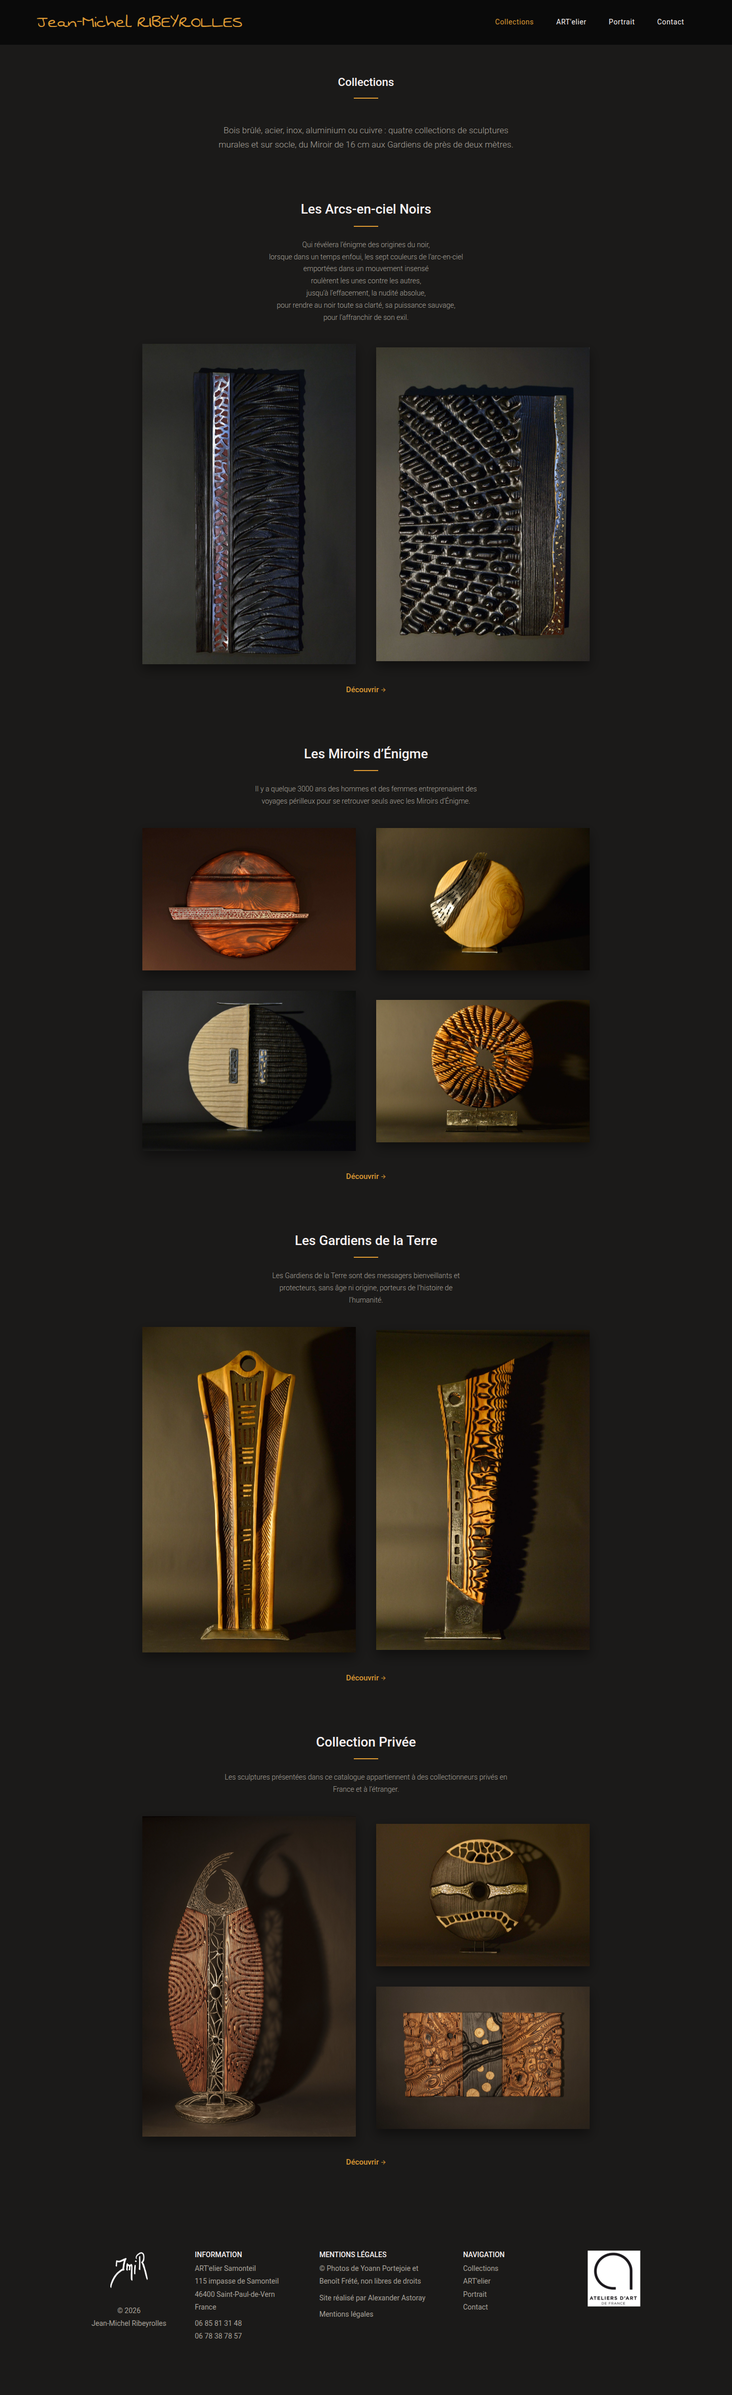
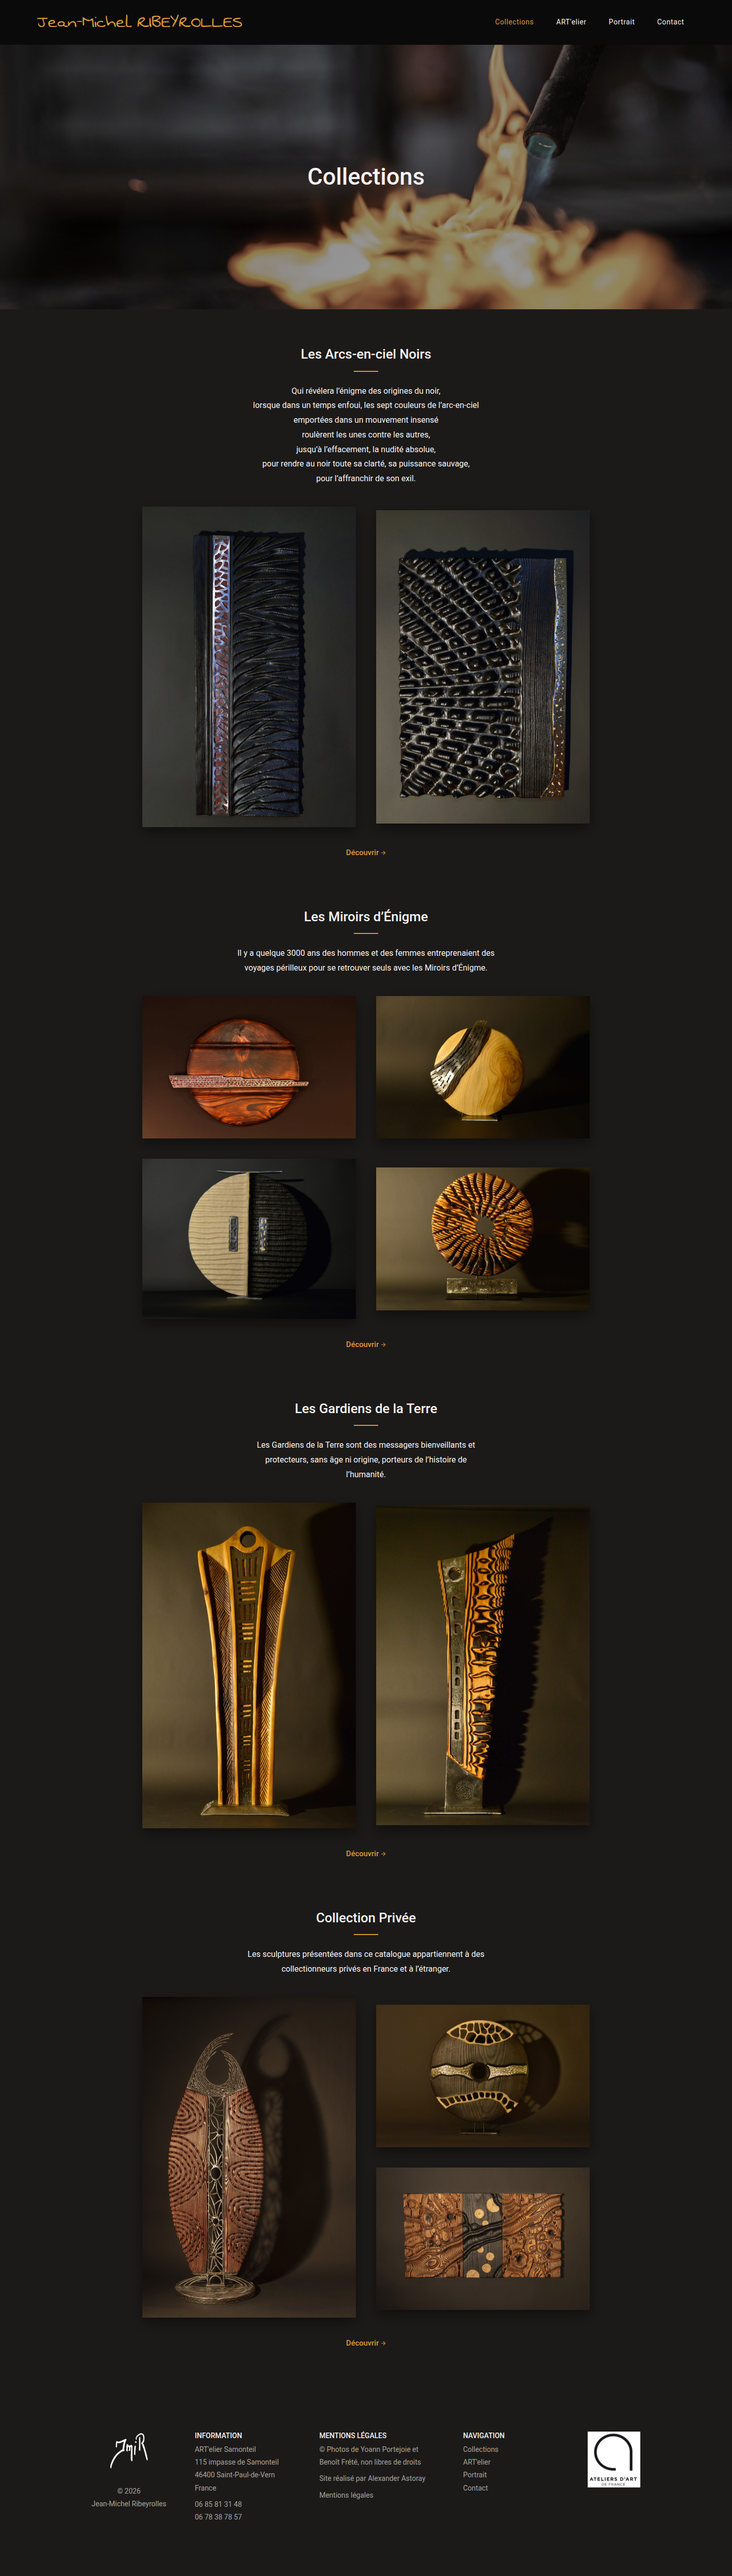
feat: update maquettes

diff --git a/maquettes/styles.css b/maquettes/styles.css
@@ -169,6 +169,10 @@ html { scroll-padding-top: calc(var(--header-h-s) + 16px); }
   font-size: clamp(30px, 4vw, 46px); padding: 0 var(--gutter);
 }
 @media (max-width: 700px) { .banner { height: 220px; } }
+/* Bandeau de collections.html : cadré sur la partie nette (buse du chalumeau et pointe
+   de la flamme, en haut à droite de la photo) */
+.banner--colls img { object-position: 70% 12%; }
+@media (max-width: 700px) { .banner--colls img { object-position: 72% 18%; } }
 
 /* --------------------------------------------------------------------------
    Footer
@@ -497,8 +501,9 @@ html { scroll-padding-top: calc(var(--header-h-s) + 16px); }
 .cblock { padding-block: 72px; text-align: center; }
 .cblock + .cblock { padding-top: 24px; }
 .cblock .section-title { font-size: clamp(22px, 2vw, 26px); margin-bottom: 24px; }
+/* Textes des collections : taille et couleur des paragraphes de portrait.html */
 .cblock .verse, .cblock .intro-line {
-  font-size: 14px; line-height: 1.7; font-weight: 300; color: var(--text-2);
+  font-size: 16px; line-height: 1.8; font-weight: 400; color: var(--text);
   text-align: center; margin: 0 auto;
 }
 .cblock .intro-line { max-width: 560px; }

diff --git a/maquettes/collections.html b/maquettes/collections.html
@@ -32,13 +32,11 @@
   </div>
 </header>
 <main>
-<section class="section section--tight colls-top" aria-labelledby="t-top">
-  <div class="wrap">
-    <h1 class="section-title" id="t-top">Collections</h1>
-    <p class="colls-intro">Bois brûlé, acier, inox, aluminium ou cuivre&nbsp;: quatre collections de sculptures murales
-      et sur socle, du Miroir de 16&nbsp;cm aux Gardiens de près de deux mètres.</p>
-  </div>
+<section class="banner banner--colls">
+  <img src="../docs/design/photos/Bandeau-COLLECTIONS.jpg" width="1363" height="909" alt="" loading="eager" decoding="async">
+  <h1>Collections</h1>
 </section>
+
 <section class="cblock" aria-labelledby="c0">
   <div class="wrap">
     <h2 class="section-title" id="c0">Les Arcs-en-ciel Noirs</h2>

diff --git a/scripts/maquettes/gen.py b/scripts/maquettes/gen.py
@@ -413,7 +413,9 @@ def cblock(i, name, href, layout, refs, intro):
                  f'      <div class="stack">{"".join(ocell(r) for r in refs[1:])}</div>')
     else:
         cells = "\n".join(f"      {ocell(r)}" for r in refs)
-    text = f'<p class="intro-line">{intro}</p>' if intro else f'<p class="verse">{verse(name)}</p>'
+    lines = VERSES.get(name, [])
+    text = (f'<p class="intro-line">{intro}</p>' if intro
+            else '<p class="verse">' + "".join(f'<span class="l">{l}</span>' for l in lines) + '</p>')
     return f'''<section class="cblock" aria-labelledby="c{i}">
   <div class="wrap">
     <h2 class="section-title" id="c{i}">{name}</h2>
@@ -425,13 +427,11 @@ def cblock(i, name, href, layout, refs, intro):
   </div>
 </section>'''
 
-collections = f'''<section class="section section--tight colls-top" aria-labelledby="t-top">
-  <div class="wrap">
-    <h1 class="section-title" id="t-top">Collections</h1>
-    <p class="colls-intro">Bois brûlé, acier, inox, aluminium ou cuivre&nbsp;: quatre collections de sculptures murales
-      et sur socle, du Miroir de 16&nbsp;cm aux Gardiens de près de deux mètres.</p>
-  </div>
+collections = f'''<section class="banner banner--colls">
+  {img("Bandeau-COLLECTIONS.jpg", "", loading="eager", v=None)}
+  <h1>Collections</h1>
 </section>
+
 {chr(10).join(cblock(i, *c) for i, c in enumerate(OVERVIEW))}'''
 write("collections.html", page("Collections · Jean-Michel Ribeyrolles",
                                "Les quatre collections de Jean-Michel Ribeyrolles : Les Arcs-en-ciel Noirs, Les Miroirs d’Énigme, Les Gardiens de la Terre et la Collection Privée.",
